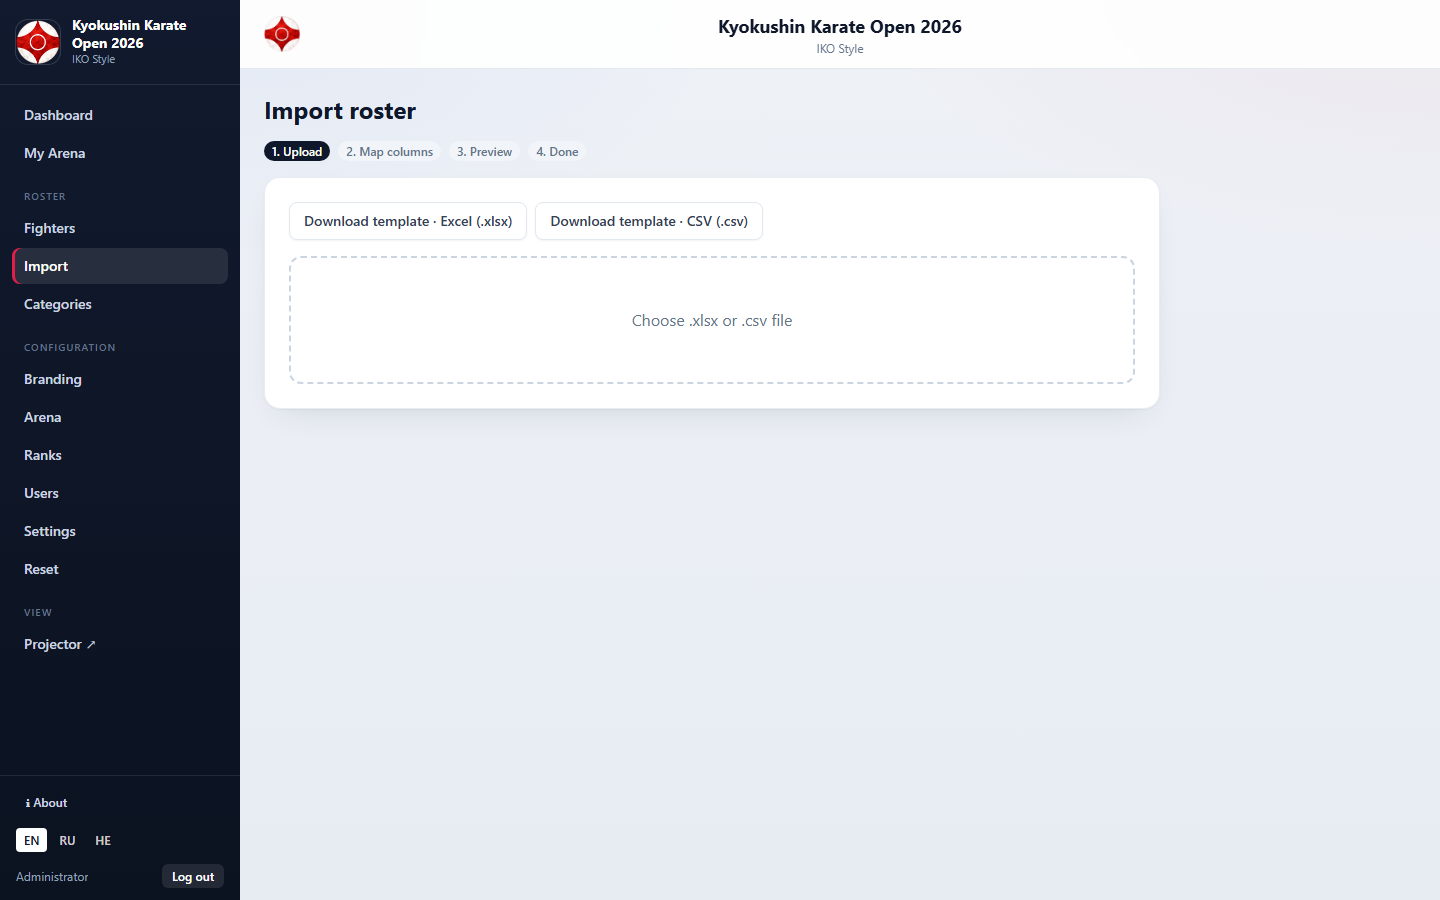
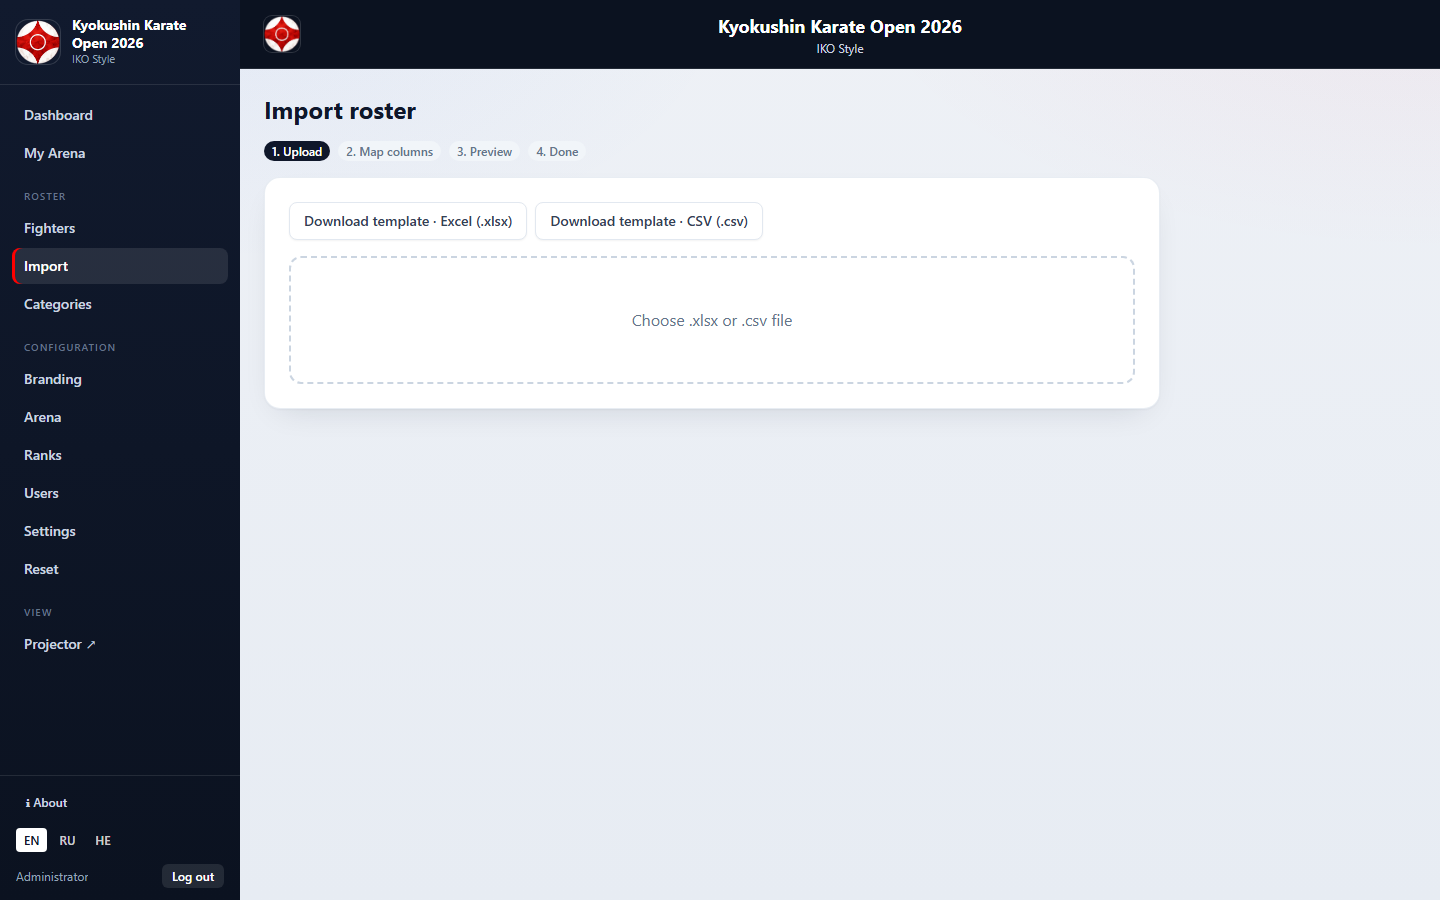
Configurable top bar colour (matches sidebar), branded login page, rebuilt Branding page (left/right corners, top-bar preview), fix clipped NOW frame

Changed region(s): [[0.1562, 0.0, 1.0, 0.0933]]

diff --git a/client/src/pages/config/Branding.tsx b/client/src/pages/config/Branding.tsx
@@ -12,6 +12,7 @@ export default function Branding() {
     title: '',
     subtitle: '',
     accentColor: '#e11d48',
+    topBarColor: '#0b1220',
     bronzeMode: 'single' as 'single' | 'double',
     cornerAName: 'AO',
     cornerAColor: '#2563eb',
@@ -25,6 +26,7 @@ export default function Branding() {
         title: event.title,
         subtitle: event.subtitle ?? '',
         accentColor: event.accentColor,
+        topBarColor: event.topBarColor ?? '#0b1220',
         bronzeMode: event.bronzeMode,
         cornerAName: event.cornerAName,
         cornerAColor: event.cornerAColor,
@@ -65,6 +67,10 @@ export default function Branding() {
             <label className="label">{t('branding.accent')}</label>
             <input type="color" className="h-10 w-16 rounded border border-slate-300" value={form.accentColor} onChange={(e) => setForm({ ...form, accentColor: e.target.value })} />
           </div>
+          <div>
+            <label className="label">{t('branding.topBarColor')}</label>
+            <input type="color" className="h-10 w-16 rounded border border-slate-300" value={form.topBarColor} onChange={(e) => setForm({ ...form, topBarColor: e.target.value })} />
+          </div>
           <div className="flex-1">
             <label className="label">{t('branding.bronzeMode')}</label>
             <select className="input" value={form.bronzeMode} onChange={(e) => setForm({ ...form, bronzeMode: e.target.value as any })}>
@@ -73,24 +79,36 @@ export default function Branding() {
             </select>
           </div>
         </div>
+        {/* Live preview of the top bar with the chosen colour + logo + title. */}
+        <div>
+          <label className="label">{t('branding.preview')}</label>
+          <div className="flex items-center gap-3 rounded-lg border border-slate-200 px-4 py-2" style={{ background: form.topBarColor }}>
+            <img src={event?.logoPath || '/canva-logo.png'} alt="logo" className="h-8 w-8 rounded object-contain ring-1 ring-white/15" />
+            <div className="flex-1 text-center leading-tight">
+              <div className="text-sm font-bold text-white">{form.title || t('app.title')}</div>
+              {form.subtitle && <div className="text-[11px] text-slate-300">{form.subtitle}</div>}
+            </div>
+            <div className="h-8 w-8 shrink-0" aria-hidden="true" />
+          </div>
+        </div>
         <button className="btn-primary" onClick={() => save.mutate()} disabled={save.isPending}>
           {t('common.save')}
         </button>
       </div>
 
       <div className="card space-y-3 p-5">
-        <div className="text-sm font-semibold text-slate-700">Fighter corners</div>
-        <p className="text-xs text-slate-500">Top vs bottom side labels + colours shown on every match. Change them for taekwondo or another sport.</p>
+        <div className="text-sm font-semibold text-slate-700">{t('branding.corners')}</div>
+        <p className="text-xs text-slate-500">{t('branding.cornersHelp')}</p>
         <div className="grid grid-cols-2 gap-3">
           <div>
-            <label className="label">Top corner (name)</label>
+            <label className="label">{t('branding.leftCorner')}</label>
             <div className="flex gap-2">
               <input type="color" className="h-10 w-12 rounded border" value={form.cornerAColor} onChange={(e) => setForm({ ...form, cornerAColor: e.target.value })} />
               <input className="input" value={form.cornerAName} onChange={(e) => setForm({ ...form, cornerAName: e.target.value })} />
             </div>
           </div>
           <div>
-            <label className="label">Bottom corner (name)</label>
+            <label className="label">{t('branding.rightCorner')}</label>
             <div className="flex gap-2">
               <input type="color" className="h-10 w-12 rounded border" value={form.cornerBColor} onChange={(e) => setForm({ ...form, cornerBColor: e.target.value })} />
               <input className="input" value={form.cornerBName} onChange={(e) => setForm({ ...form, cornerBName: e.target.value })} />

diff --git a/client/src/components/Layout.tsx b/client/src/components/Layout.tsx
@@ -78,12 +78,16 @@ export default function Layout() {
       </aside>
 
       <div className="app-shell flex min-w-0 flex-1 flex-col">
-        {/* Top bar: logo on the left, tournament name centred. */}
-        <header className="sticky top-0 z-10 flex items-center gap-3 border-b border-slate-200 bg-white/90 px-6 py-3 backdrop-blur">
-          <img src={event?.logoPath || '/canva-logo.png'} alt="logo" className="h-9 w-9 shrink-0 rounded-lg object-contain" />
+        {/* Top bar: logo on the left, tournament name centred. Colour matches the sidebar
+            by default and is configurable in Branding (event.topBarColor). */}
+        <header
+          className="sticky top-0 z-10 flex items-center gap-3 border-b border-white/10 px-6 py-3"
+          style={{ background: event?.topBarColor || 'var(--sidebar)' }}
+        >
+          <img src={event?.logoPath || '/canva-logo.png'} alt="logo" className="h-9 w-9 shrink-0 rounded-lg object-contain ring-1 ring-white/15" />
           <div className="flex-1 text-center leading-tight">
-            <div className="text-lg font-bold text-slate-900">{event?.title ?? t('app.title')}</div>
-            {event?.subtitle && <div className="text-xs text-slate-500">{event.subtitle}</div>}
+            <div className="text-lg font-bold text-white">{event?.title ?? t('app.title')}</div>
+            {event?.subtitle && <div className="text-xs text-slate-300">{event.subtitle}</div>}
           </div>
           <div className="h-9 w-9 shrink-0" aria-hidden="true" />
         </header>

diff --git a/client/src/pages/Login.tsx b/client/src/pages/Login.tsx
@@ -1,11 +1,13 @@
 import { useState } from 'react';
 import { Navigate, useNavigate } from 'react-router-dom';
 import { useAuth } from '../lib/auth';
+import { useEvent } from '../lib/queries';
 import { useI18n } from '../i18n';
 import { ApiError } from '../lib/api';
 
 export default function Login() {
   const { user, login } = useAuth();
+  const { data: event } = useEvent();
   const { t } = useI18n();
   const navigate = useNavigate();
   const [username, setUsername] = useState('');
@@ -36,8 +38,9 @@ export default function Login() {
     >
       <form onSubmit={submit} className="card w-full max-w-sm p-6 shadow-2xl backdrop-blur">
         <div className="mb-5 flex flex-col items-center gap-2 text-center">
-          <img src="/canva-logo.png" alt="logo" className="h-20 w-20 drop-shadow" />
-          <h1 className="text-xl font-bold text-slate-900">{t('app.title')}</h1>
+          <img src={event?.logoPath || '/canva-logo.png'} alt="logo" className="h-20 w-20 rounded-2xl object-contain drop-shadow" />
+          <h1 className="text-xl font-bold leading-tight text-slate-900">{event?.title ?? t('app.title')}</h1>
+          {event?.subtitle && <p className="text-sm font-medium text-slate-600">{event.subtitle}</p>}
           <p className="text-sm text-slate-500">{t('login.title')}</p>
         </div>
         {error && <div className="mb-3 rounded-lg bg-red-50 px-3 py-2 text-sm text-red-700">{error}</div>}

diff --git a/client/src/components/BracketView.tsx b/client/src/components/BracketView.tsx
@@ -65,7 +65,8 @@ export default function BracketView({ state, editable, tatamiName, tatamiImage, 
     <div className="space-y-6">
       {showUpNext && <UpNext state={state} />}
 
-      <div className="flex gap-8 overflow-x-auto pb-4">
+      {/* p-1 gives the current bout's green ring room so it isn't clipped by overflow. */}
+      <div className="flex gap-8 overflow-x-auto p-1 pb-4">
         {earlyRounds.map((r) => {
           const matches = state.bracket.matches
             .filter((m) => m.round === r && !m.isBronze)

diff --git a/server/src/routes/event.ts b/server/src/routes/event.ts
@@ -10,6 +10,7 @@ const updateSchema = z.object({
   title: z.string().min(1).optional(),
   subtitle: z.string().nullable().optional(),
   accentColor: z.string().optional(),
+  topBarColor: z.string().optional(),
   bronzeMode: z.enum(['single', 'double']).optional(),
   cornerAName: z.string().min(1).max(12).optional(),
   cornerAColor: z.string().optional(),

diff --git a/client/src/lib/queries.ts b/client/src/lib/queries.ts
@@ -7,6 +7,7 @@ export interface EventBranding {
   subtitle: string | null;
   logoPath: string | null;
   accentColor: string;
+  topBarColor: string;
   bronzeMode: 'single' | 'double';
   defaultTatamiImage: string | null;
   cornerAName: string;
